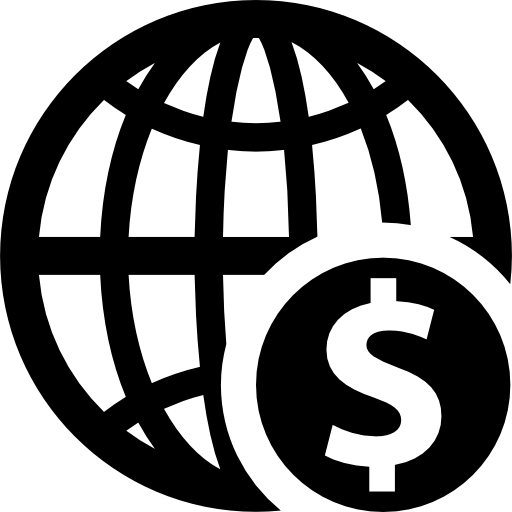
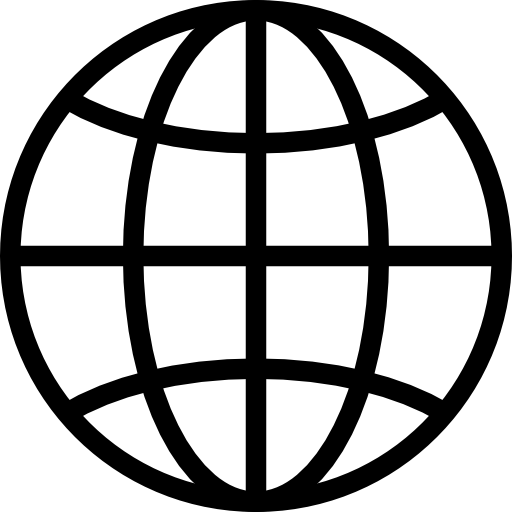
img

diff --git a/index.html b/index.html
@@ -137,7 +137,7 @@ Copyright &copy;<script>document.write(new Date().getFullYear());</script> All r
 							<div class="row row-bottom-padded-sm animate-box" data-animate-effect="fadeInLeft">
 								<div class="col-md-12">
 									<div class="about-desc">
-										<span class="heading-meta">About Us</span>
+										<!-- <span class="heading-meta">About Us</span> -->
 										<h2 class="colorlib-heading">Who Am I?</h2>
 										<p><strong>Hi I'm Duo Peng</strong> I am a parasitologist currently training in the vector biology field</p>
 										<p>I am a big believer of the power of combining methods from different fields to drive scientific discoveries. I've also trained in bioinformatics and data science fields.</p>
@@ -149,25 +149,28 @@ Copyright &copy;<script>document.write(new Date().getFullYear());</script> All r
 								<div class="col-md-3 animate-box" data-animate-effect="fadeInLeft">
 									<div class="services color-1">
 										<img src="images/animal.png">
-										<h3>Graphic Design</h3>
+										<h3>Vector biology</h3>
 									</div>
 								</div>
 								<div class="col-md-3 animate-box" data-animate-effect="fadeInRight">
 									<div class="services color-2">
-										<span class="icon2"><i class="icon-globe-outline"></i></span>
-										<h3>Web Design</h3>
+										<!--<span class="icon2"><i class="icon-globe-outline"></i></span> -->
+										<p><img src="images/pathogen.png"></p>
+										<h3>Parasitology</h3>
 									</div>
 								</div>
 								<div class="col-md-3 animate-box" data-animate-effect="fadeInTop">
 									<div class="services color-3">
 										<span class="icon2"><i class="icon-data"></i></span>
-										<h3>Software</h3>
+										<p><img src="images/computer.png"></p>
+										<h3>Machine learning</h3>
 									</div>
 								</div>
 								<div class="col-md-3 animate-box" data-animate-effect="fadeInBottom">
 									<div class="services color-4">
 										<span class="icon2"><i class="icon-phone3"></i></span>
-										<h3>Application</h3>
+										<p><img src="images/globe.png"></p>
+										<h3>Global health</h3>
 									</div>
 								</div>
 							</div>
